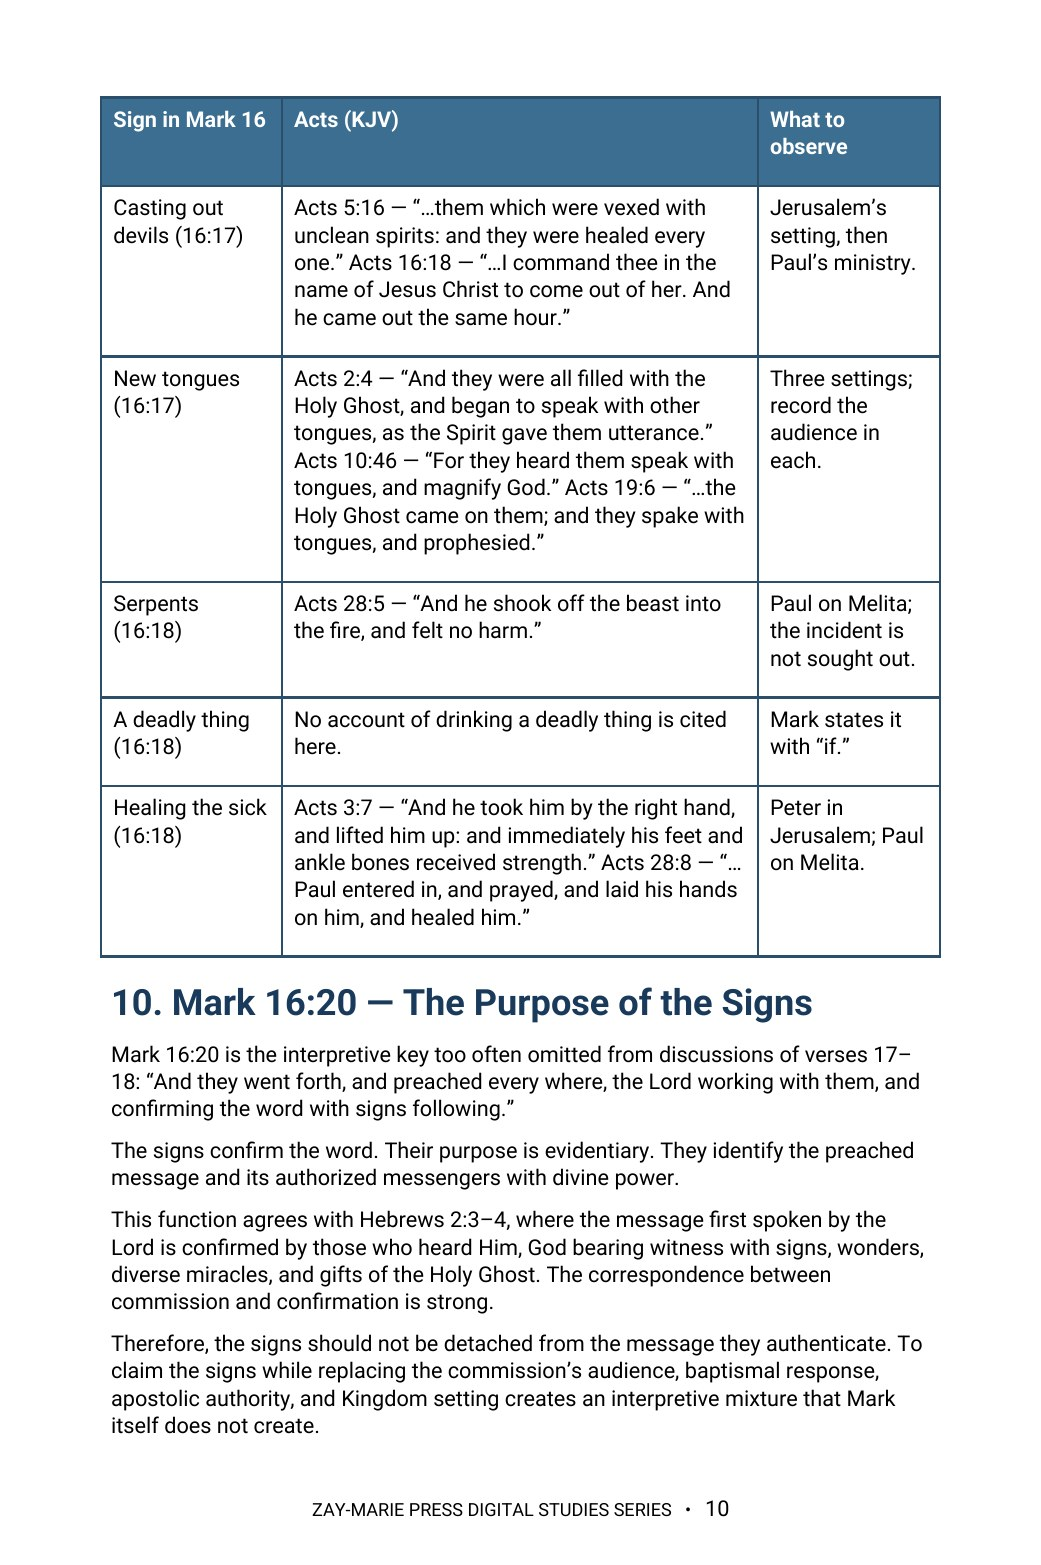
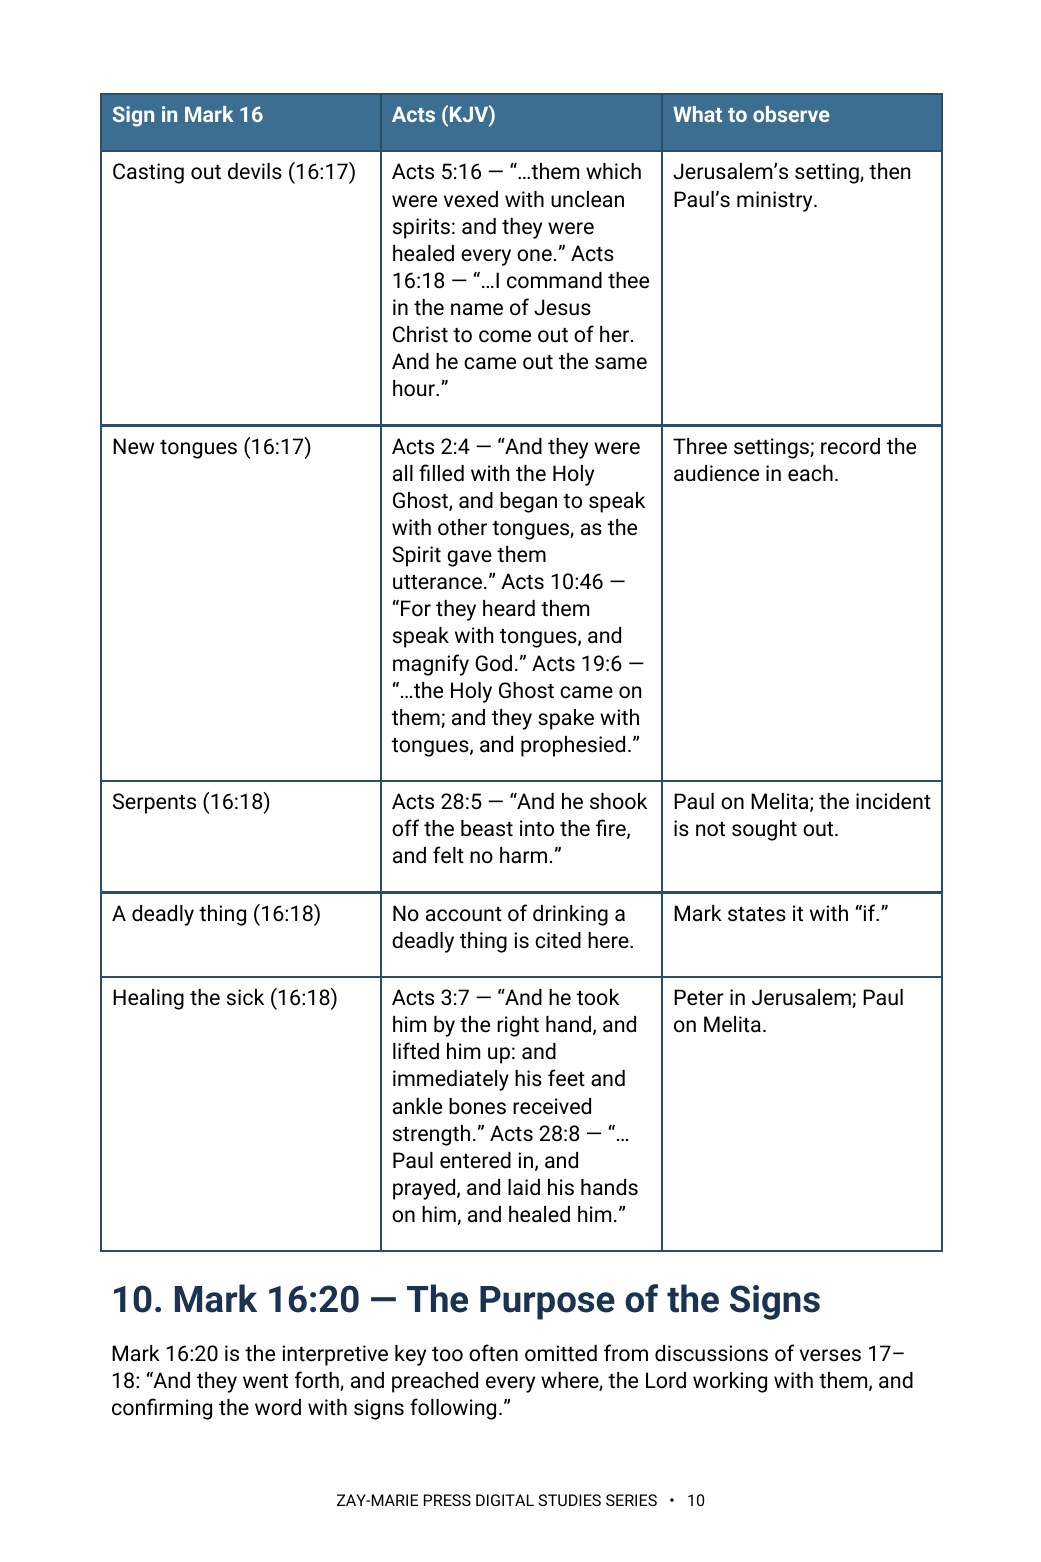
Study 25: rebuilt preview pages and trackers for Roboto 10 pt build on current page (17 pages)
Claude-Session: https://claude.ai/code/session_01HC7bs9KYP2scp4hCL6DkTp

Changed region(s): [[0.0922, 0.0615, 0.9222, 0.9219], [0.3074, 0.9526, 0.6455, 0.9834], [0.6763, 0.9526, 0.707, 0.9834]]

diff --git a/CLAUDE.md b/CLAUDE.md
@@ -23,7 +23,7 @@ These are kept in the repo at `controlling-documents/` and are the current versi
 - As of v1.50 (publisher directive, 2026-10-03), the **What You Will Learn in This Study** section is always bulleted, never set as running paragraphs, written into this file in the same pass (Master Standard Section 3 item 4, Section 6 structure line, Section 22): a list of bullet points, each describing one process, textual marker or interpretive discipline the reader will practice (Section 17 still governs what they may say); at most one short lead-in line may stand above the bullets (for example, “By the end of this study, you should be able to:”); the Study Goal callout and the Study Outline keep their own forms. It governs every new study and every study rebuilt or retrofitted from now on; earlier studies take it when reopened or when the publisher directs. In every study check (Step 1), report whether the section is bulleted. First applied to Study 43.
 **`controlling-documents/Digital_Studies_Relationship_Map_v1.39.md`** — records each study's distinct subject, its related studies, the eight priced six-study collections, the Paul's Missionary Journeys cross-reference map, and the five primary catalog categories (currently version 1.39, covers Studies 1–71; update it as new studies publish, bump the version number, rename the file to match, and log the change in its own version-history table — mirroring the Master Standard's `_vX.Y` filename convention). Check a proposed topic against it before recommending or writing a new study. (2026-09-28: the file was missing from this repo despite this note referencing it; replaced from the publisher's copy and bumped v1.15→v1.25 in the same pass. If this note ever again points to a version not present under `controlling-documents/`, ask the publisher for a copy rather than proceeding without the check.)
 - **`controlling-documents/Digital_Studies_Category_Standard_v1.1.md`** — FINAL and binding (publisher, 2026-10-01): the rules for the five primary catalog categories (Foundations, Israel & Prophecy, Body of Christ, Passages, Doctrinal Themes), the ordered decision procedure for new studies, the precedents, all 71 fixed assignments, and the cover-label form for each category. Read it before placing any card or cover label. Do not ask the publisher where a study belongs; apply the procedure and state the result. Only the publisher changes a ruling; then bump this Standard's version and filename, re-letter the cover, and update the Relationship Map.
-- **`controlling-documents/Doctrinal_Upgrade_Retrofit_Plan_v1.108.md`** — working tracker for retrofitting Studies 1–59 to the 2026-10-02 doctrinal upgrade (Framework/PAM v1.1, Master Standard v1.40, Rules 7–17): withdrawn-wording search keys, impact tiers, waves and the per-study method. Read it before continuing the retrofit in any session; update status, bump the version and rename the file as work proceeds.
+- **`controlling-documents/Doctrinal_Upgrade_Retrofit_Plan_v1.109.md`** — working tracker for retrofitting Studies 1–59 to the 2026-10-02 doctrinal upgrade (Framework/PAM v1.1, Master Standard v1.40, Rules 7–17): withdrawn-wording search keys, impact tiers, waves and the per-study method. Read it before continuing the retrofit in any session; update status, bump the version and rename the file as work proceeds.
 - **`controlling-documents/Doctrinal_Packet_Standard_v0.3.md`** — Doctrinal Packet Standard (DRAFT; §7 approved). Governs the separate Doctrinal Packets product strand (5-page interpretive PDFs per Bible book — a print-friendly cover as page 1 plus 4 content pages, $2.99, KJV, pilot: Genesis, live at `packet-genesis.html`, hub `doctrinal-packets.html`; site pages say "5 Pages", cover styles live in `packets.css`, Old Testament blue and New Testament soft pale green, hub listed in Bible order). **Preview rule (publisher directive, 2026-09-29, packets only):** previews show about one page's worth in two cropped views (top of page 1 through the anchor texts; the chart section) — never the exegesis, architecture, Mystery contrast, logic chain, outline, or closing. Master Standard §16/§17 still govern Digital Studies. Bump the version and rename the file as the Standard is finalized.
 - **`controlling-documents/Preview_Page_Spoiler_Retrofit_Audit_v1.4.md`** — working tracker for the Studies 1–60 preview-page conclusion-spoiler retrofit (see the section below). Read it before continuing that audit in any session; update its status fields and changelog, bump the version, and rename the file to match as the audit proceeds — same `_vX.Y` convention as the other controlling documents. As of v1.1, the website-side half was DONE: all 60 studies' "What You'll Study" text was judged against the rule (methodology documented in the file) and 22 points across 11 studies were rewritten and pushed; an unrelated Study 22 content bug (Study 21's content had leaked into it) was also found and fixed. As of v1.2, the publisher supplied Studies 1–60's interior production PDFs and the interior-PDF half was also surveyed (read-only): 10 studies (37, 41, 45, 47, 48, 49, 51, 52, 53, 54) were found to have at least one interior "What You Will Learn" violation, 50 studies were confirmed compliant, and the orphaned `assets/study-45-sanctification-under-grace.docx` (removed from the repo per the publisher in v1.0) was confirmed word-for-word identical to Study 45's actual production interior PDF content. As of v1.3, the publisher supplied editable DOCX sources for all 10 violating studies; all 15 violating points were rewritten and approved, delivered as corrected final PDFs, and — along the way — a second defect was found and fixed (Studies 47 and 48's source DOCX still had an unintegrated cover placeholder despite both being long-published live with real covers; fixed by inserting the existing approved cover art). The website's "What You Will Learn" preview image (`study-NN-page-3.jpg`) was regenerated from the corrected content for all 10 studies and pushed to `main` (commit `cea1859`), verified against a fresh clone. **The website side of this audit is now fully compliant for all 60 studies.** Outstanding: the publisher's purchasable interior PDF files themselves have corrected versions delivered, but distribution to existing purchasers was decided by the publisher on 2026-09-29: silent swap of the files behind the existing downloads, no reissue notice (recorded in the v1.4 changelog entry; the product files are not in this repo).
 

diff --git a/controlling-documents/Doctrinal_Upgrade_Retrofit_Plan_v1.109.md b/controlling-documents/Doctrinal_Upgrade_Retrofit_Plan_v1.109.md
@@ -201,3 +201,4 @@ Working tracker for correcting published studies to the Framework/PAM v1.1, Mast
 - v1.106 (2026-10-04): Study 21 rebuilt in Roboto at 10 pt on the current page, 16 pages (was 17 on the old 432×648 page). WYWL opening paragraph removed and lead-in added (eight bullets already process lines, kept); 'The Framework classifies the remnant…' and the withdrawn 'gathered into the Body' clarifier replaced (remnant is Israel’s believing remnant, not the Body, never becomes the Body, stays outside the Body, Mystery Program and heavenly calling); 'framework' wording removed (5); full Romans 11 depth added (four boundaries, triad, 'Identity is fixed by divine program, not by metaphor', concurrency close, Gentile-salvation line); Rule 18 full sentence added after the Acts 28 sequence paragraph; overlap and Rule 17 sentences added to section 5; Acts 28 callout 'not a cancellation, transfer or absorption' and no-further-chronology sentence; Teaching Outline numbered; five content tables kept. Previews 2, 3 and 4 re-rendered at 1041×1562 (page 4 relabelled Isaiah 6 and the Language of Hardening); site.js 21:16; study page 16 pages.
 - v1.107 (2026-10-04): Study 22 rebuilt in Roboto at 10 pt on the current page, 15 pages (was 16 on the old 432×648 page). WYWL opening paragraph removed and lead-in added (seven bullets already process lines, kept); 'The Framework assigns John 14…' reworded to 'John 14 belongs to the Prophecy Program…'; overlap and Rule 17 sentences added to section 6; Teaching Outline numbered; four content tables kept. Previews 2, 3 and 4 re-rendered at 1041×1562; site.js 22:15; study page 15 pages.
 - v1.108 (2026-10-04): Study 24 rebuilt in Roboto at 10 pt on the current page, 16 pages (unchanged from the old 432×648 build). WYWL opening paragraph removed and lead-in added (eight bullets already process lines, kept); Framework wording removed from the WYWL Hebrews bullet and the section 10 Hebrews sentence (now the reader-facing covenant sentence); two 'Acts Overlap framework' phrases reworded; section 10 numbered; overlap and Rule 17 sentences added; Teaching Outline numbered; typo fixed.
+- v1.109 (2026-10-04): Study 25 rebuilt in Roboto at 10 pt on the current page, 17 pages (unchanged from the old 432×648 build). WYWL opening paragraph removed and lead-in added (eight bullets already process lines, kept); three 'The Framework…' sentences and two 'framework' phrases reworded; Rule 19 sentence added in section 3 (publisher-approved: baptism is a program requirement, not a ground of salvation or a Body requirement); overlap, Rule 17, Rule 11 and Rule 18 short-form sentences added; stray duplicated Review-question paragraph in Scripture-Tracing removed; Teaching Outline numbered.

diff --git a/controlling-documents/Digital_Studies_PAM_Audit_v1.203.md b/controlling-documents/Digital_Studies_PAM_Audit_v1.203.md
@@ -432,3 +432,4 @@ Study 15 PDF not yet supplied. Typography: none of Studies 2, 3, 6, 8 is in EB G
 - v1.200 (2026-10-04): Study 21 rebuilt in Roboto at 10 pt on the current page, 16 pages; remnant paragraph conformed (withdrawn wording removed); full Romans 11 depth and Rule 18 full sentence added; overlap and Rule 17 sentences added; Acts 28 not a cancellation, transfer or absorption; Teaching Outline numbered (see Retrofit Plan v1.106).
 - v1.201 (2026-10-04): Study 22 rebuilt in Roboto at 10 pt on the current page, 15 pages; Framework wording removed from John 14 sentence; overlap and Rule 17 sentences added; Teaching Outline numbered (see Retrofit Plan v1.107).
 - v1.202 (2026-10-04): Study 24 rebuilt in Roboto at 10 pt on the current page, 16 pages; Framework wording removed (Hebrews sentence now reader-facing); overlap and Rule 17 sentences added; Teaching Outline numbered (see Retrofit Plan v1.108).
+- v1.203 (2026-10-04): Study 25 rebuilt in Roboto at 10 pt on the current page, 17 pages; Framework wording removed; Rule 19, overlap, Rule 17, Rule 11 and Rule 18 sentences added; Teaching Outline numbered (see Retrofit Plan v1.109).
